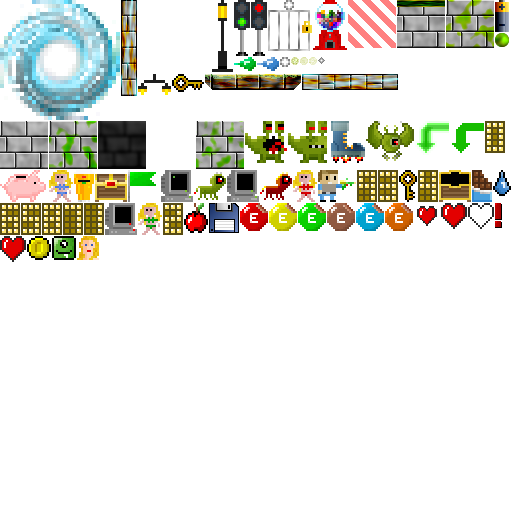
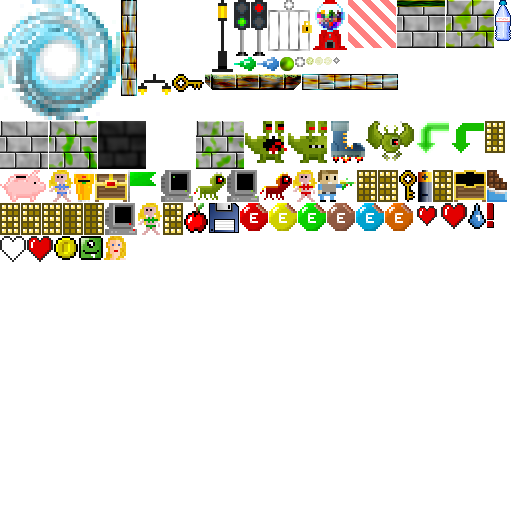
Added water bottle.

diff --git a/src/entities/waterBottle.c b/src/entities/waterBottle.c
@@ -1,0 +1,84 @@
+/*
+Copyright (C) 2019 Parallel Realities
+
+This program is free software; you can redistribute it and/or
+modify it under the terms of the GNU General Public License
+as published by the Free Software Foundation; either version 2
+of the License, or (at your option) any later version.
+
+This program is distributed in the hope that it will be useful,
+but WITHOUT ANY WARRANTY; without even the implied warranty of
+MERCHANTABILITY or FITNESS FOR A PARTICULAR PURPOSE.
+
+See the GNU General Public License for more details.
+
+You should have received a copy of the GNU General Public License
+along with this program; if not, write to the Free Software
+Foundation, Inc., 59 Temple Place - Suite 330, Boston, MA  02111-1307, USA.
+
+*/
+
+#include "waterBottle.h"
+
+static void tick(void);
+static void draw(void);
+static void touch(Entity *other);
+
+static AtlasImage *waterBottleTexture = NULL;
+
+void initWaterBottle(Entity *e)
+{
+	Item *h;
+
+	h = malloc(sizeof(Item));
+	memset(h, 0, sizeof(Item));
+
+	e->typeName = "waterBottle";
+	e->type = ET_ITEM;
+	e->data = h;
+	e->flags = EF_DELETE;
+	e->tick = tick;
+	e->draw = draw;
+	e->touch = touch;
+
+	if (waterBottleTexture == NULL)
+	{
+		waterBottleTexture = getAtlasImage("gfx/entities/waterBottle.png", 1);
+	}
+
+	e->atlasImage = waterBottleTexture;
+	e->w = e->atlasImage->rect.w;
+	e->h = e->atlasImage->rect.h;
+}
+
+static void tick(void)
+{
+	itemHop();
+}
+
+static void draw(void)
+{
+	drawObjectGlow(224, 224, 255, 64);
+
+	blitAtlasImage(self->atlasImage, self->x - world.camera.x, self->y - world.camera.y, 0, SDL_FLIP_NONE);
+}
+
+static void touch(Entity *other)
+{
+	Walter *w;
+
+	if (self->alive == ALIVE_ALIVE && other != NULL && other->type == ET_PLAYER)
+	{
+		w = (Walter*)other->data;
+
+		w->ammo = ++w->maxAmmo;
+
+		self->alive = ALIVE_DEAD;
+
+		addPowerupParticles(self->x + self->w / 2, self->y + self->h / 2);
+
+		addGameText(self->x, self->y, "Capacity Up!");
+
+		playSound(SND_POWERUP, -1);
+	}
+}

diff --git a/src/entities/waterBottle.h b/src/entities/waterBottle.h
@@ -1,0 +1,32 @@
+/*
+Copyright (C) 2019 Parallel Realities
+
+This program is free software; you can redistribute it and/or
+modify it under the terms of the GNU General Public License
+as published by the Free Software Foundation; either version 2
+of the License, or (at your option) any later version.
+
+This program is distributed in the hope that it will be useful,
+but WITHOUT ANY WARRANTY; without even the implied warranty of
+MERCHANTABILITY or FITNESS FOR A PARTICULAR PURPOSE.
+
+See the GNU General Public License for more details.
+
+You should have received a copy of the GNU General Public License
+along with this program; if not, write to the Free Software
+Foundation, Inc., 59 Temple Place - Suite 330, Boston, MA  02111-1307, USA.
+
+*/
+
+#include "../common.h"
+
+extern void addGameText(int x, int y, char *format, ...);
+extern void addPowerupParticles(int x, int y);
+extern void blitAtlasImage(AtlasImage *atlasImage, int x, int y, int center, SDL_RendererFlip flip);
+extern void drawObjectGlow(int r, int g, int b, int a);
+extern AtlasImage *getAtlasImage(char *filename, int required);
+extern void itemHop(void);
+extern void playSound(int snd, int ch);
+
+extern Entity *self;
+extern World world;

diff --git a/src/world/entityFactory.h b/src/world/entityFactory.h
@@ -36,6 +36,7 @@ extern void initGumballMachine(Entity *e);
 extern void initHeart(Entity *e);
 extern void initHorizontalDoor(Entity *e);
 extern void initKey(Entity *e);
+extern void initWaterBottle(Entity *e);
 extern void initLamp(Entity *e);
 extern void initPiggyBank(Entity *e);
 extern void initPlatform(Entity *e);

diff --git a/src/world/entityFactory.c b/src/world/entityFactory.c
@@ -52,6 +52,7 @@ void initEntityFactory(void)
 	addInitFunc("startPoint", initStartPoint);
 	addInitFunc("trafficLight", initTrafficLight);
 	addInitFunc("transferCube", initTransferCube);
+	addInitFunc("waterBottle", initWaterBottle);
 }
 
 static void addInitFunc(const char *id, void (*init)(Entity *e))
